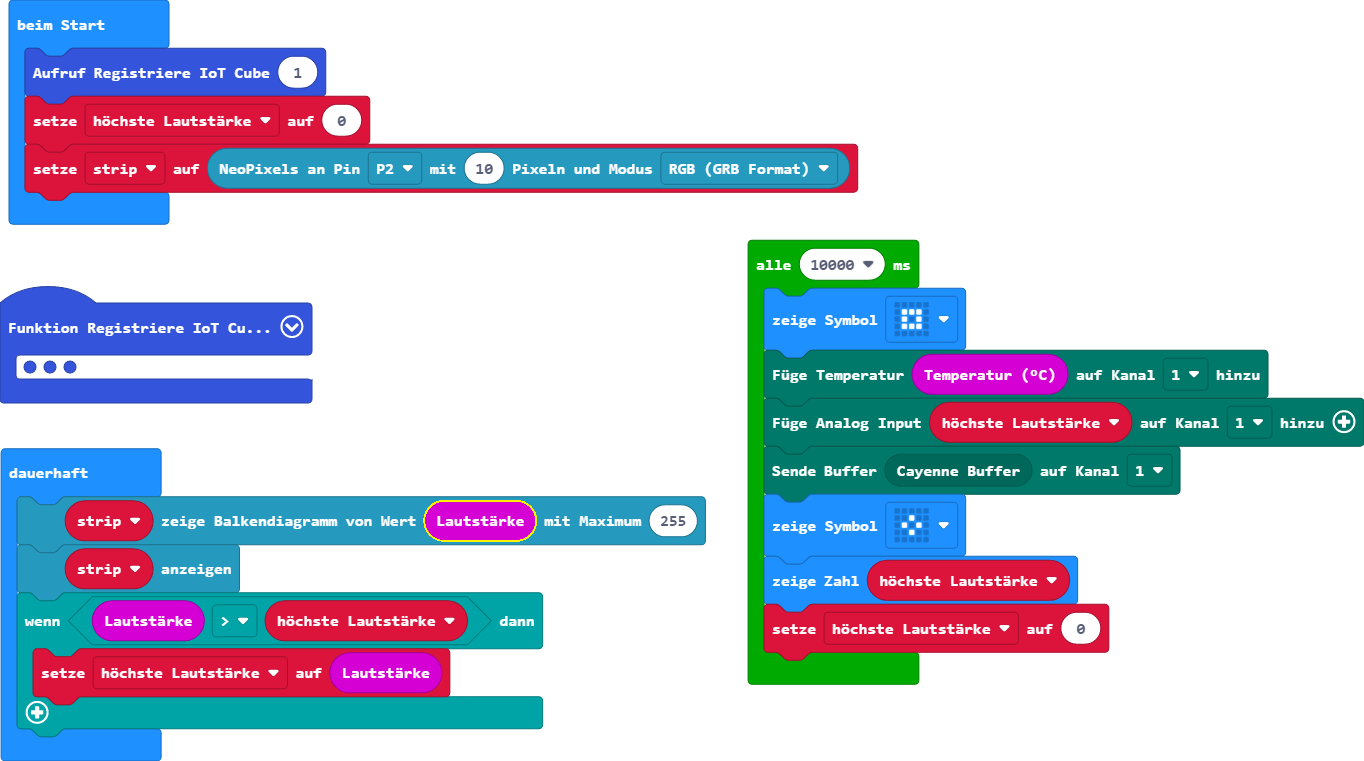
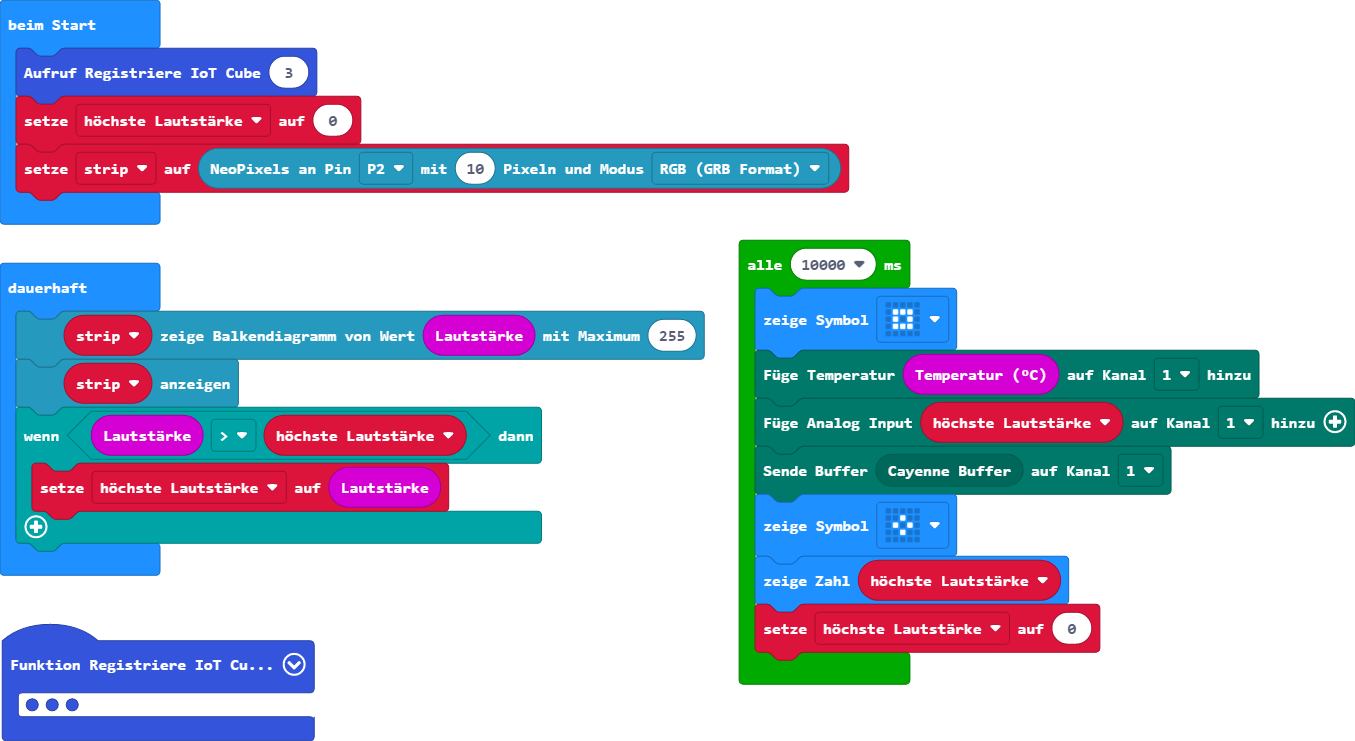
running example

diff --git a/main.ts b/main.ts
@@ -17,6 +17,15 @@ function Registriere_IoT_Cube (CubeNummer: number) {
         "A"
         )
     }
+    if (CubeNummer == 3) {
+        IoTCube.OTAA_Setup(
+        "0000000000000006",
+        "AC1F09FFFE083809",
+        "52A4E4802669CD3D89CCC04695B7D274",
+        eBands.EU868,
+        "A"
+        )
+    }
     basic.pause(1000)
     IoTCube.LoRa_Join(
     eBool.enable,
@@ -25,7 +34,7 @@ function Registriere_IoT_Cube (CubeNummer: number) {
     8
     )
 }
-Registriere_IoT_Cube(1)
+Registriere_IoT_Cube(3)
 let höchste_Lautstärke = 0
 let strip = neopixel.create(DigitalPin.P2, 10, NeoPixelMode.RGB)
 loops.everyInterval(10000, function () {
